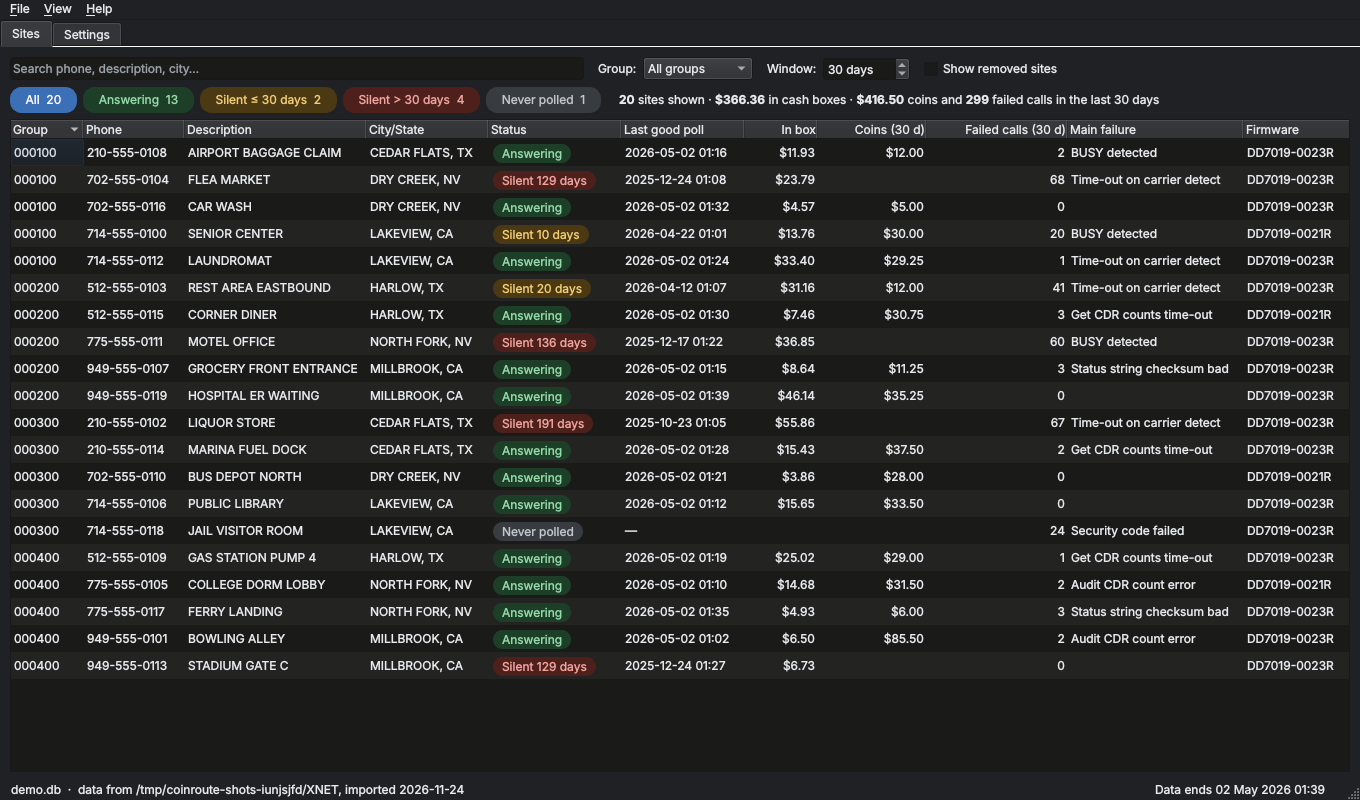
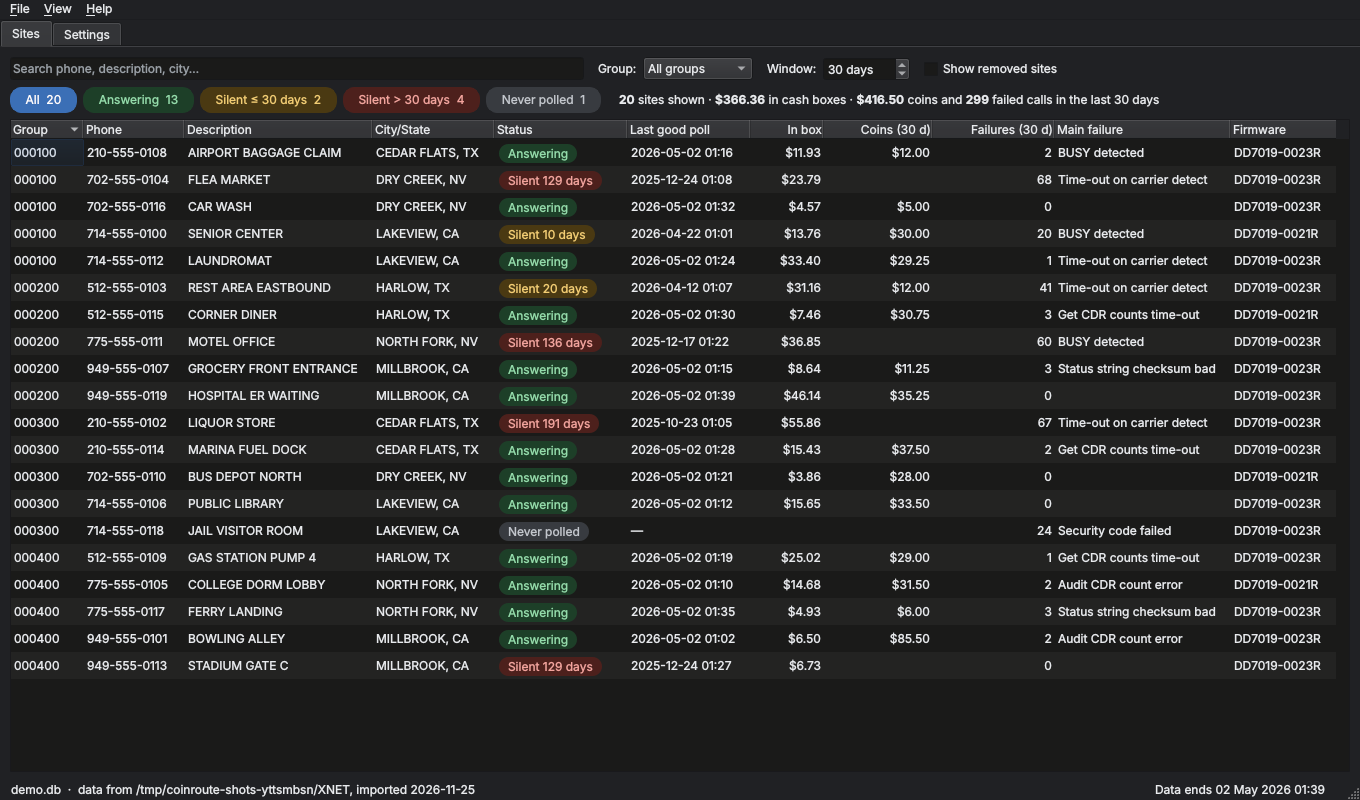
Sites table fits its width under Breeze; totals line wraps
On KDE with Breeze the cells are padded more, and the columns were fitted
before the vertical scrollbar appeared, so a sideways scrollbar showed up
and Firmware was half hidden. The fit now reserves the scrollbar's width
when the rows won't fit, adds padding only when there is room, and
otherwise narrows Description, Main failure and City/State (to 110 px;
the full text is in the tooltip). 'Failed calls (N d)' becomes
'Failures (N d)'. The totals line wraps instead of fixing the view's
minimum width at ~1,170 px. Screenshots refreshed for the new header.

Claude-Session: https://claude.ai/code/session_01TC8GAd5rtzPkeykmdXparm

diff --git a/src/coinroute/gui/sitesview.py b/src/coinroute/gui/sitesview.py
@@ -67,7 +67,7 @@ class SitesModel(RowsModel):
                 f"Coins collected by the phone in the last {days} days of data",
             ),
             Column(
-                f"Failed calls ({days} d)",
+                f"Failures ({days} d)",
                 "failed_calls_in_window",
                 count,
                 RIGHT,
@@ -246,7 +246,7 @@ class SitesView(QWidget):
         self.days.setValue(30)
         self.days.setSuffix(" days")
         self.days.setToolTip(
-            "Window for the Coins and Failed calls columns, counted back from the end of the data"
+            "Window for the Coins and Failures columns, counted back from the end of the data"
         )
         self._reload_timer = QTimer(self)
         self._reload_timer.setSingleShot(True)
@@ -288,6 +288,7 @@ class SitesView(QWidget):
         self.chips[None].setChecked(True)
         chips.addSpacing(12)
         self.totals = QLabel()
+        self.totals.setWordWrap(True)  # one long line would set the whole view's minimum width
         self.totals.setTextInteractionFlags(Qt.TextInteractionFlag.TextSelectableByMouse)
         chips.addWidget(self.totals, 1)
 
@@ -355,31 +356,49 @@ class SitesView(QWidget):
         self._update_chips()
 
     SQUEEZABLE = (2, 9, 3)  # description, main failure, city: give up width first when space is short
+    FLOOR = 110  # narrowest a squeezed column gets (its full text is in the tooltip)
+    PAD = 12  # breathing room added to each column when the table has space for it
 
     def _fit_columns(self) -> None:
+        """Size columns to their contents, then fit the table's width without a sideways scrollbar.
+
+        Styles pad cells differently (Breeze much more than Fusion), so the padding is only added
+        when there is room, and the long text columns give up width when there isn't.
+        """
         hh = self.table.horizontalHeader()
         self.table.resizeColumnsToContents()
         for c in range(self.model.columnCount()):
-            hh.resizeSection(c, min(max(hh.sectionSize(c) + 12, 64), 340))
-        self._squeeze()
-
-    def _squeeze(self) -> None:
-        """Narrow the long text columns (down to a floor) so the table fits without scrolling sideways."""
-        hh = self.table.horizontalHeader()
-        avail = self.table.viewport().width()
-        if avail <= 0 or not self.isVisible():
+            hh.resizeSection(c, min(max(hh.sectionSize(c), 56), 340))
+        avail = self.table.viewport().width() if self.isVisible() else 0
+        vbar = self.table.verticalScrollBar()
+        if avail > 0 and not vbar.isVisible() and (
+            self.table.verticalHeader().length() > self.table.viewport().height()
+        ):
+            # the rows won't fit, so a vertical scrollbar is about to take some of the width
+            avail -= self.table.style().pixelMetric(QStyle.PixelMetric.PM_ScrollBarExtent, None, vbar)
+        if avail <= 0:  # not laid out yet; fitted again when first shown
+            for c in range(hh.count()):
+                hh.resizeSection(c, hh.sectionSize(c) + self.PAD)
             return
-        excess = sum(hh.sectionSize(c) for c in range(hh.count())) - avail
+        self._fitted_visible = True
+        spare = avail - sum(hh.sectionSize(c) for c in range(hh.count()))
+        if spare >= 0:
+            pad = min(self.PAD, spare // max(1, hh.count()))
+            for c in range(hh.count()):
+                hh.resizeSection(c, hh.sectionSize(c) + pad)
+            return
+        excess = -spare
         for c in self.SQUEEZABLE:
             if excess <= 0:
                 break
-            cut = min(excess, max(0, hh.sectionSize(c) - 140))
+            cut = min(excess, max(0, hh.sectionSize(c) - self.FLOOR))
             hh.resizeSection(c, hh.sectionSize(c) - cut)
             excess -= cut
 
     def showEvent(self, e) -> None:
         super().showEvent(e)
-        QTimer.singleShot(0, self._squeeze)
+        if not getattr(self, "_fitted_visible", False):  # once; later the user's own widths stay
+            QTimer.singleShot(0, self._fit_columns)
 
     # --- filters ---
 

diff --git a/tests/test_gui_sites.py b/tests/test_gui_sites.py
@@ -103,3 +103,28 @@ def test_sort_role_is_python_value(qtbot, db):
     qtbot.addWidget(v)
     v.set_db(db)
     assert isinstance(v.model.index(0, STATUS_COL).data(SortRole), tuple)
+
+
+def test_columns_fit_the_width_without_sideways_scrolling(qtbot, qapp, db):
+    base = qapp.font()
+    big = qapp.font()
+    big.setPointSizeF(base.pointSizeF() * 1.15)  # wider cells, as with Breeze's font and padding
+    qapp.setFont(big)
+    try:
+        v = SitesView()
+        qtbot.addWidget(v)
+        v.resize(1300, 420)  # short, so the vertical scrollbar is needed once the rows are in
+        v.show()
+        qtbot.waitExposed(v)
+        v.set_db(db)
+        qtbot.wait(50)  # let the scrollbars settle
+        hh = v.table.horizontalHeader()
+        assert v.table.verticalScrollBar().isVisible()
+        assert not v.table.horizontalScrollBar().isVisible()
+        assert sum(hh.sectionSize(c) for c in range(hh.count())) <= v.table.viewport().width()
+        assert hh.sectionSize(2) >= v.FLOOR  # description squeezed, not crushed
+        idx = v.proxy.index(0, 2)  # the full text of a squeezed cell is in its tooltip
+        assert idx.data(Qt.ItemDataRole.ToolTipRole) == idx.data()
+        assert v.minimumSizeHint().width() < 1100  # the totals line wraps instead of widening the view
+    finally:
+        qapp.setFont(base)

diff --git a/src/coinroute/gui/models.py b/src/coinroute/gui/models.py
@@ -78,7 +78,8 @@ class RowsModel(QAbstractTableModel):
             return custom
         if role in (Qt.ItemDataRole.DisplayRole, Qt.ItemDataRole.ToolTipRole):
             text = col.text(row)
-            return text if role == Qt.ItemDataRole.DisplayRole or len(text) > 40 else None
+            # tooltips repeat longer text, which a narrow column may cut short with "…"
+            return text if role == Qt.ItemDataRole.DisplayRole or len(text) > 12 else None
         if role == Qt.ItemDataRole.TextAlignmentRole:
             return col.align
         if role == SortRole:
